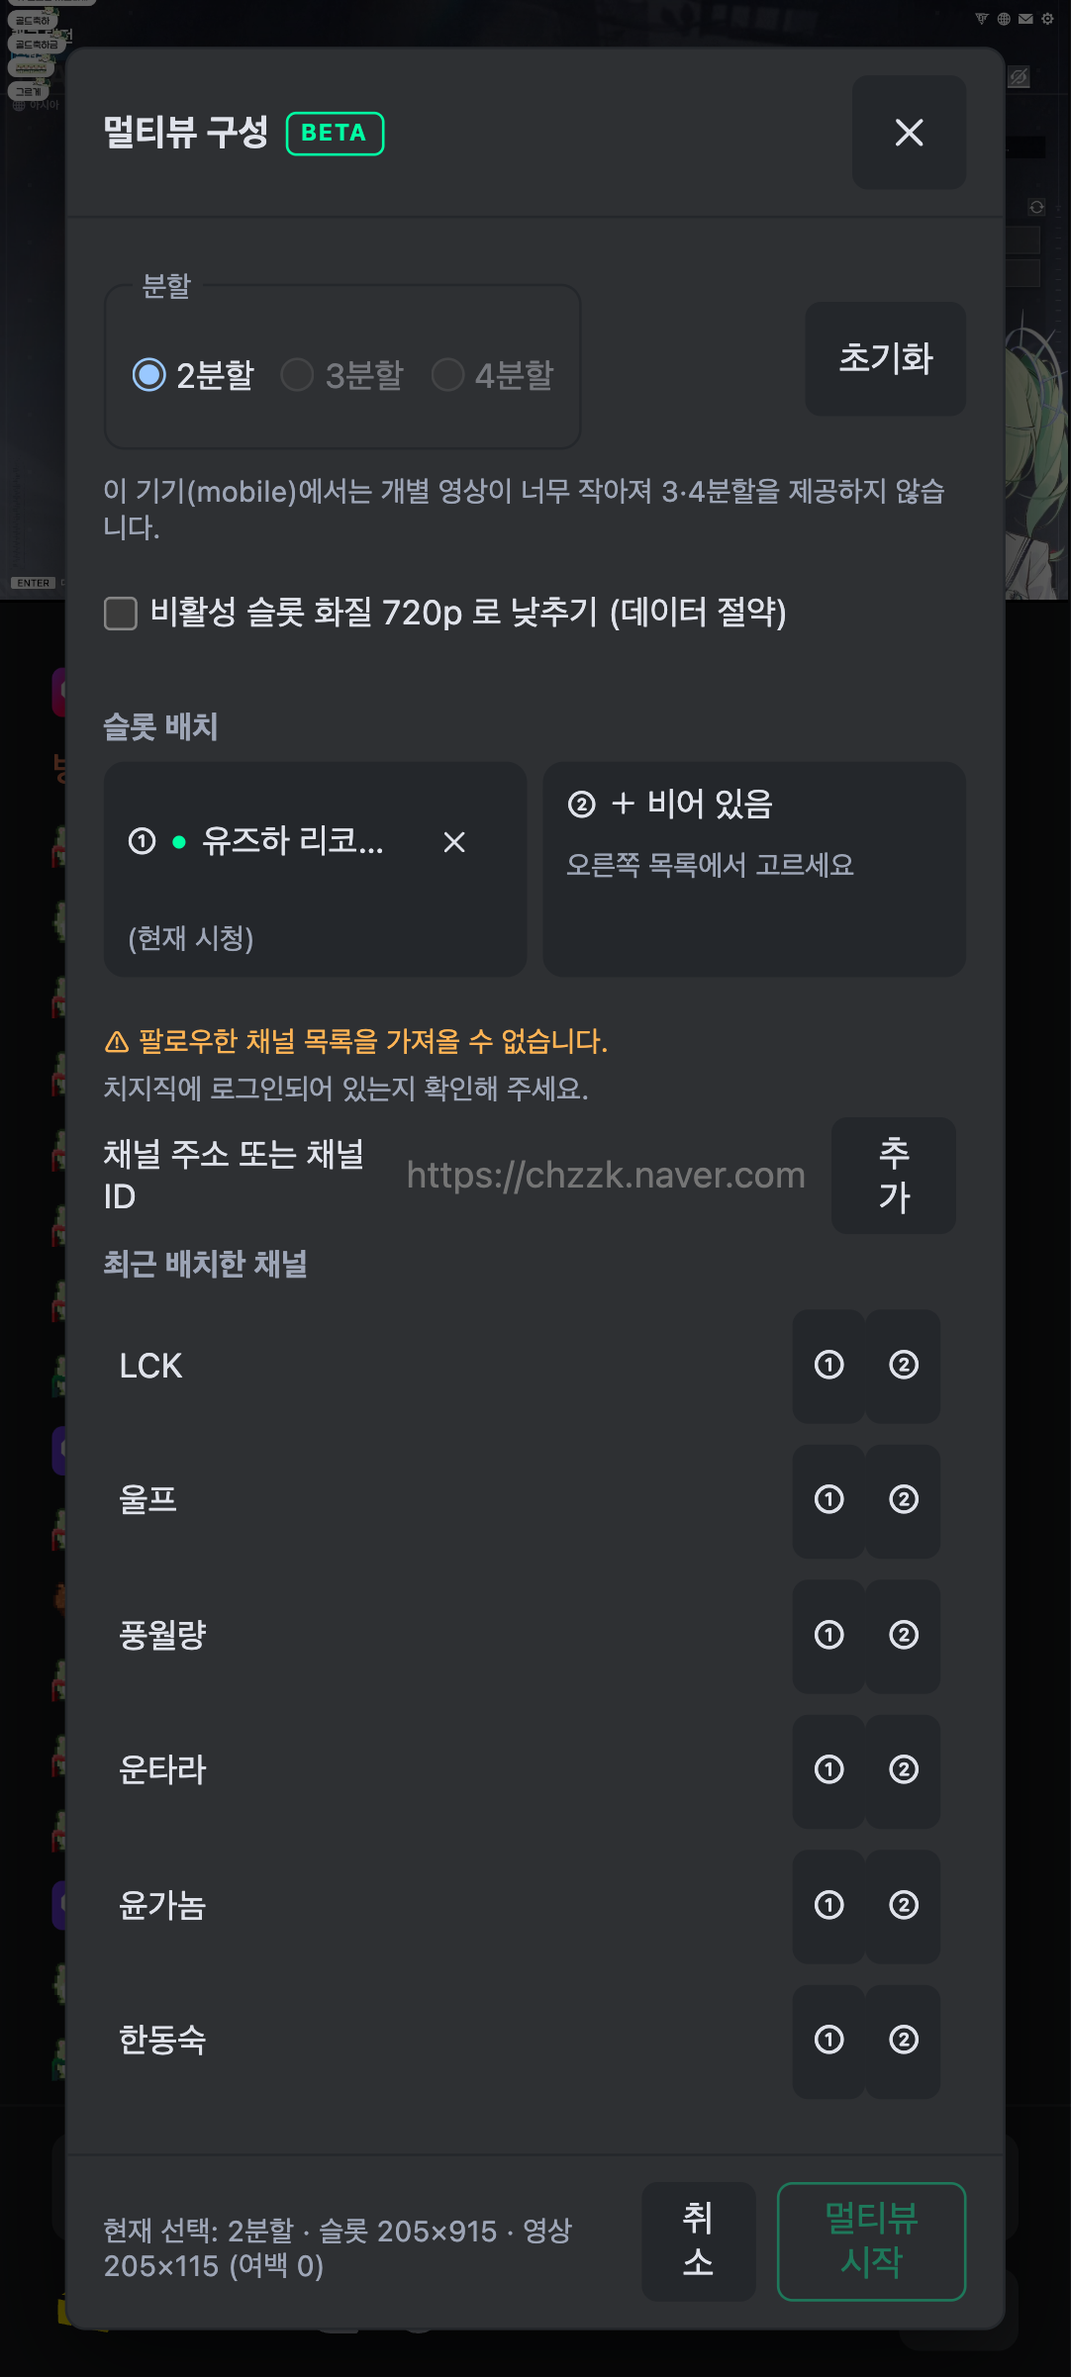
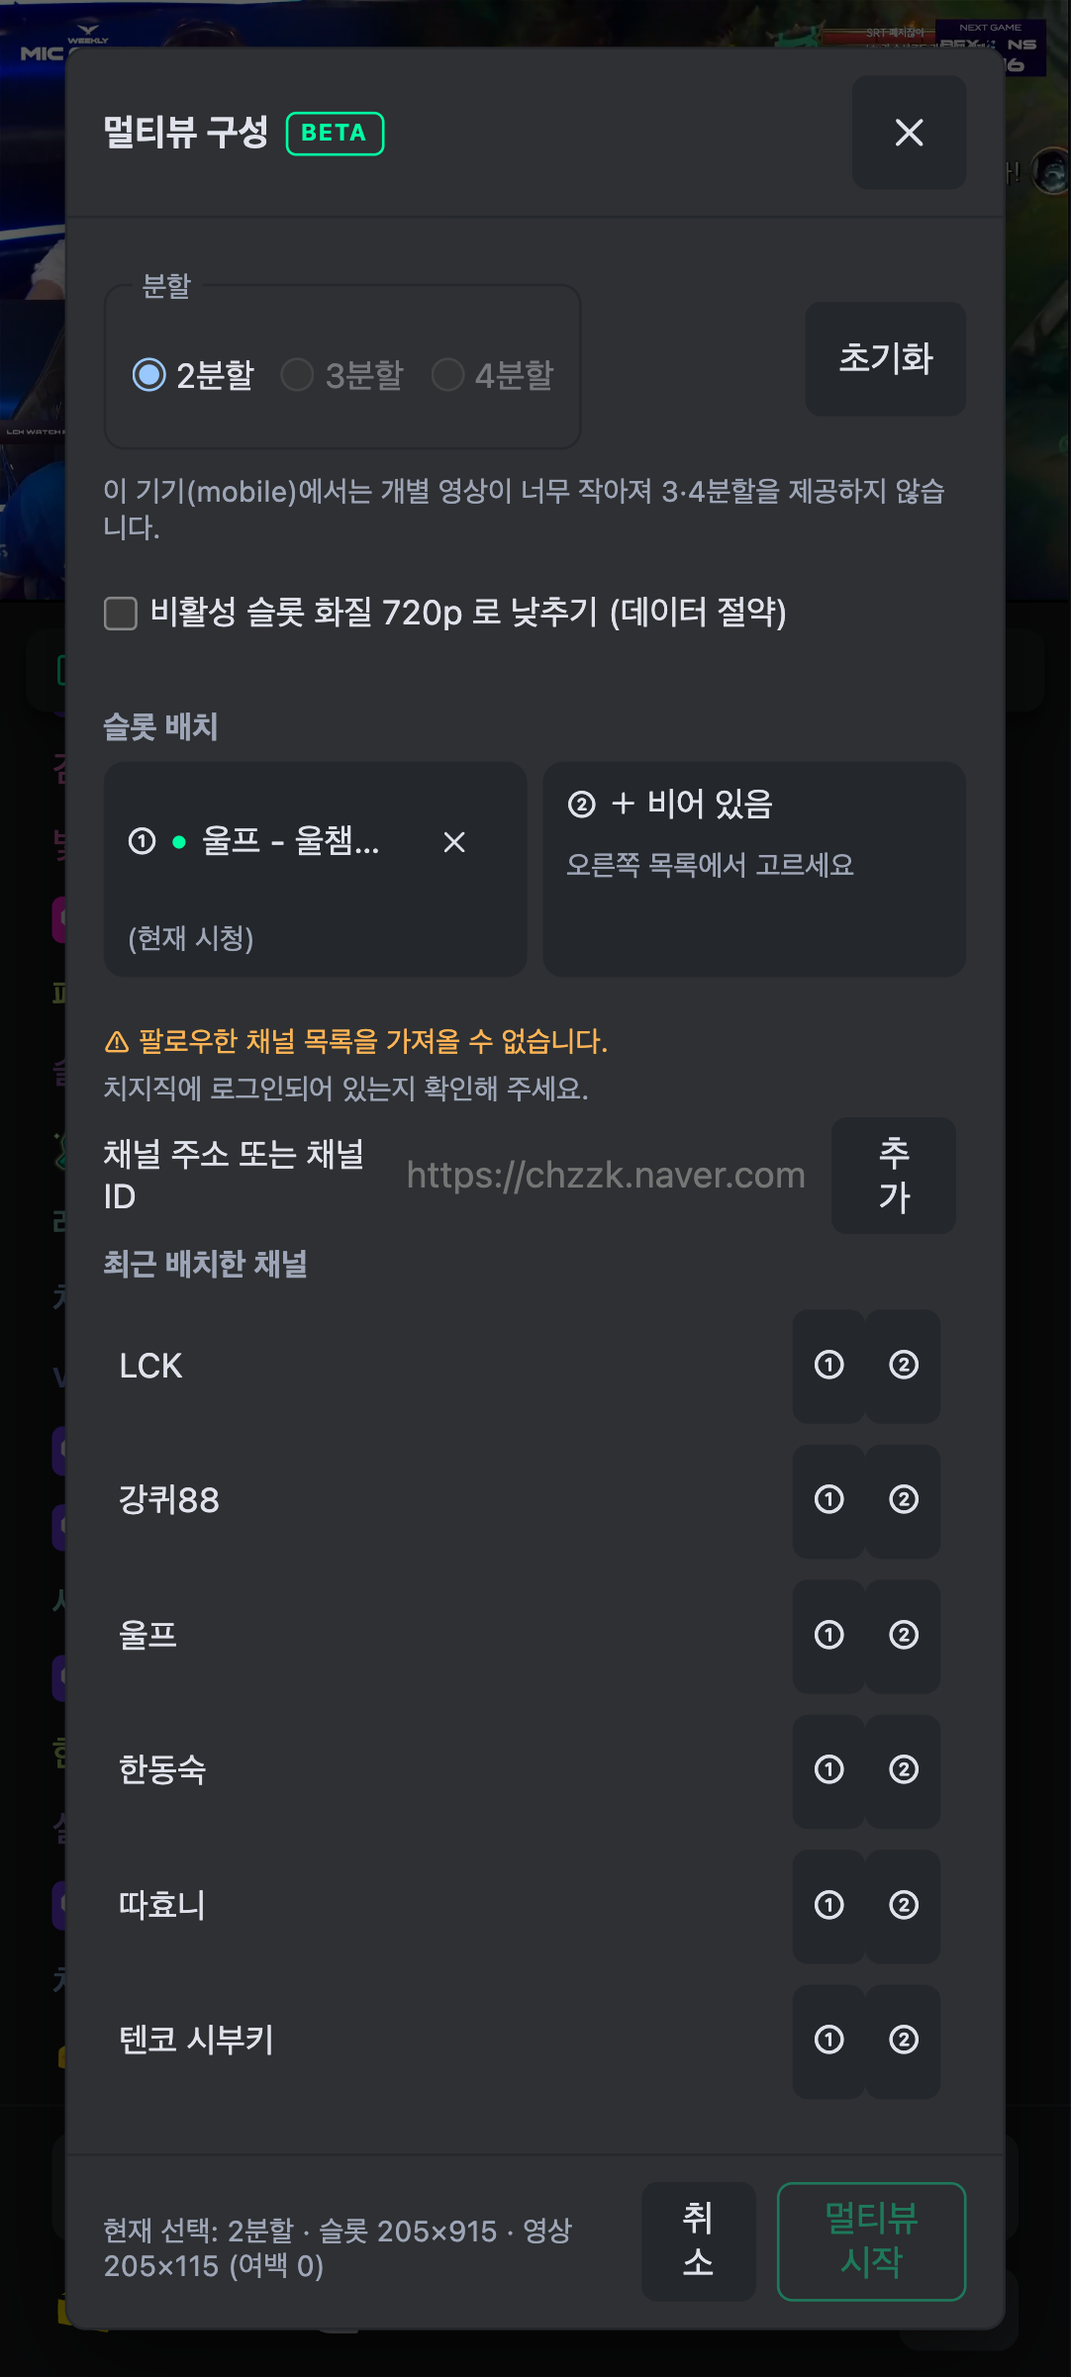
fix: Multiview config sheet layout + trim README
- Slot-placement grid in the multiview config sheet was pinned to the
  top of its stretched column, leaving a large dead gap below on
  short splits (2/3-way). Center it vertically within the leftover
  space instead.
- "현재 구성 저장" is silently disabled when there are no slots yet or
  the saved-set limit is hit, with no indication why. Add a title
  explaining the reason.
- Trim the README: drop dev-diary-style investigation narratives
  (probe file references, per-attempt failure counts) that don't help
  an end user, remove a stale line describing the green focus-slot
  outline removed earlier this session, and de-duplicate the FR-10
  measurement note repeated in the Android install section.
- Refresh demo screenshots (yarn demo:shots) to reflect this session's
  UI changes.

diff --git a/src/features/multiView/configSheetCss.ts b/src/features/multiView/configSheetCss.ts
@@ -87,6 +87,21 @@ export const CONFIG_SHEET_CSS = `
 .cm-sheet-backdrop:has(.cm-mv-columns) .cm-sheet { height: min(900px, 96vh); }
 .cm-mv-columns > section { min-width: 0; }
 .cm-mv-columns h3 { margin: 0 0 6px; font-size: 12px; color: ${FG.muted}; }
+/*
+ * 🔴 왼쪽(슬롯 배치)은 항상 오른쪽(채널 목록, 최대 10행)만큼 커지도록 늘어난다
+ * (align-items: stretch) — 채널 목록이 스크롤할 공간을 최대로 받게 하려는 의도인데,
+ * 그 부작용으로 슬롯 그리드가 짧은 2·3분할에서 왼쪽 아래에 텅 빈 여백만 남는다
+ * (실측 laptop13, 4분할: 그리드 아래 약 600px 공백). 제목(h3)은 위에 그대로 두고,
+ * 그리드만 남는 세로 공간 안에서 가운데로 옮겨 여백을 위아래로 분산한다.
+ */
+.cm-mv-columns > section:first-child {
+  display: flex;
+  flex-direction: column;
+}
+.cm-mv-columns > section:first-child .cm-mv-grid {
+  margin-top: auto;
+  margin-bottom: auto;
+}
 
 /* 슬롯 미리보기 — 분할 수에 맞춘 그리드 */
 .cm-mv-grid {

diff --git a/src/settingsPanel/tabsExtra.tsx b/src/settingsPanel/tabsExtra.tsx
@@ -184,6 +184,14 @@ export function MultiViewTab({ settings, device, update }: TabProps) {
         className="cm-sheet__btn"
         aria-label="현재 구성 저장"
         disabled={multiView.slots.length === 0 || multiView.sets.length >= LIMITS.multiViewSets}
+        // 🔴 비활성 버튼만 놓으면 왜 안 눌리는지 알 수 없다 — 이유를 title 로 남긴다.
+        title={
+          multiView.slots.length === 0
+            ? '슬롯을 먼저 채워야 저장할 수 있습니다'
+            : multiView.sets.length >= LIMITS.multiViewSets
+              ? `저장된 조합이 최대 ${LIMITS.multiViewSets}개입니다`
+              : undefined
+        }
         onClick={() =>
           patch({
             sets: [

diff --git a/README.md b/README.md
@@ -34,7 +34,7 @@
 | 기본 시청 — 채팅 부가 요소 숨김 + 컨트롤바에 `멀티`·`⚙` 버튼 삽입, 채팅 폭 조절 `↔` 토글 | ![기본 시청](screenshots/demo-laptop13-watch.png) |
 | 설정 패널 (FR-09.2) — 탭 7개 + 오픈소스 라이선스 고지 진입점 | ![설정 패널](screenshots/demo-laptop13-settings.png) |
 | 멀티뷰 구성 시트 (BETA) — 조작은 상단, 인기 방송 10개씩 추가 로드 | ![멀티뷰 구성](screenshots/demo-laptop13-multiview-config.png) |
-| 멀티뷰 시청 (BETA) — 4분할, 초점 슬롯(사이드 채팅 대상·화질 우선순위)에 초록 테두리 | ![멀티뷰 시청](screenshots/demo-laptop13-multiview.png) |
+| 멀티뷰 시청 (BETA) — 4분할 | ![멀티뷰 시청](screenshots/demo-laptop13-multiview.png) |
 
 ### 모바일 (데스크톱 사이트 요청 상태)
 
@@ -49,14 +49,8 @@
 | 가로 915×412 — 멀티뷰 시청 (기기 상한 2분할) | ![모바일 가로 멀티뷰](screenshots/demo-mobile-landscape-multiview.png) |
 | 세로 412×915 — 멀티뷰 시청 (기기 상한 2분할) | ![모바일 세로 멀티뷰](screenshots/demo-mobile-portrait-multiview.png) |
 
-> ℹ `멀티` 버튼은 **이전에 보던 구성이 있으면 그대로 이어서 연다.** 없을 때만 구성 시트가 뜬다
-> (구성을 바꾸려면 스테이지의 `구성`). **슬롯·사이드 채팅 기능은 임시로 껐다** — 닉네임만 두 번 찍히고
-> 본문이 안 보이는 등 버그가 여러 건 있어 설정에서 아예 선택할 수 없게 막았다. 재작업 뒤 되살릴 예정이다.
->
-> ℹ 멀티뷰는 아직 **베타**다. 진입점(`멀티` 버튼·구성 시트 제목·스테이지 조작 바) 세 곳에 `BETA` 를 표기한다.
-> 2026-08-16 까지 슬롯마다 치지직 플레이어 컨텍스트 메뉴가 좌상단에 새어 나와 멀티뷰 시청 화면을
-> 표에서 뺐었는데, 되살리기 CSS 를 고친 뒤 3프로필 전부 노출 0건이라 다시 넣었다
-> (`capture-demo.mjs` 가 노출을 발견하면 저장하지 않고 다른 채널로 다시 찍는다).
+> ℹ `멀티` 버튼은 이전에 보던 구성이 있으면 그대로 이어서 연다 (구성을 바꾸려면 스테이지의 `구성`).
+> **슬롯·사이드 채팅 기능은 버그로 임시 비활성**이며, 멀티뷰는 아직 **베타**다.
 
 ## 기능
 
@@ -77,7 +71,7 @@
 | FR-11 | 특정 유저 채팅만 표시 | 복수 선택 가능. 켜는 즉시 최근 200개에서 과거 발언 채움 |
 | FR-12 | 기기 유형별 최적 UI·UX | 데스크톱 / 노트북 / 태블릿 13"·10"·7" / 모바일 6종 |
 | FR-13 | 치트키 구매 팝업 가리기 | 프로모션 팝업 UI(배너 + 플레이어 툴팁)를 가린다 |
-| FR-14 | 2~4 화면 분할 동시 시청(멀티뷰) | **모든 슬롯이 소리를 낸다** (2026-08-20 변경 — 슬롯마다 음소거·볼륨 컨트롤이 있어 직접 조절한다). 슬롯·사이드 채팅은 버그로 임시 비활성. 조작 바(`− + 50% 구성 ⛶ 해제`)는 **가운데 상단**, 볼륨은 마스터다 |
+| FR-14 | 2~4 화면 분할 동시 시청(멀티뷰) | 슬롯마다 음소거·볼륨을 직접 조절한다(모든 슬롯이 소리를 낸다). 슬롯·사이드 채팅은 버그로 임시 비활성. 조작 바(`− + 50% 구성 ⛶ 해제`)는 가운데 상단, 볼륨은 마스터다 |
 | FR-15 | 채팅 폰트 크기 조절 | 사이드 11~24px(기본 14) · 슬롯 10~16px(기본 12) |
 | FR-16 | 채팅창 부가 요소 숨김 | `채팅` 헤더 · 주간 후원 랭킹 · 드롭스 안내. **기본 숨김**, 항목별 토글 |
 | FR-17 | 채팅창 광고 배너 숨김 | **기본 숨김**. 배너 UI 만 가린다 — 영상 광고 재생에는 개입하지 않는다 |
@@ -92,14 +86,11 @@
 | VOD (`chzzk.naver.com/video/…`) | 화질·볼륨·넓은 화면·설정 패널 (채팅 관련 기능은 대상이 없다) |
 | 모바일 웹 (`m.chzzk.naver.com`) | **화질·볼륨만** — 이 사이트에는 채팅 UI·넓은 화면 버튼이 아예 없다. 진입 시 안내를 1회 노출한다 |
 
-> 모바일에서 채팅과 함께 보려면 브라우저의 **"데스크톱 사이트 요청"** 을 켜면 된다.
-> 그 상태에서 가로로 돌리면 FR-10 이 자동 적용된다 (915×412 실측: 채팅 183px, 영상 731×411, 여백 0).
+> 모바일에서 채팅과 함께 보려면 브라우저의 **"데스크톱 사이트 요청"**을 켜면 된다.
+> 그 상태에서 가로로 돌리면 FR-10 이 자동 적용된다.
 >
-> ⚠ **확장이 데스크톱 사이트로 자동 전환해 주지는 못한다.** 모바일 UA 로 `chzzk.naver.com` 에
-> 접속하면 치지직이 다시 `m.chzzk` 로 보내기 때문에, 확장이 리다이렉트하면 무한 루프가 된다.
-> 억제 수단(쿼리 파라미터 8종·쿠키 4종)을 실측으로 전부 시도해 **12/12 실패**를 확인했다
-> (실측 근거 `chzzk-dom-33` 은 개발 저장소의 로컬 덤프에 있다).
-> 유일한 방법인 UA 위조는 광범위 권한이 필요해 채택하지 않았다 — 대신 **안내를 1회 노출**한다.
+> ⚠ **확장이 데스크톱 사이트로 자동 전환해 주지는 못한다.** 모바일 UA 로 접속하면 치지직이
+> `m.chzzk` 로 다시 보내 확장이 리다이렉트하면 무한 루프가 되기 때문이다. 대신 안내를 1회 노출한다.
 
 ---
 
@@ -268,9 +259,8 @@ yarn build && yarn pack:crx      # → release/ezzzk-<version>.crx, .zip
 
 - ⭐ **"데스크톱 사이트 요청"을 켠다.** 켜지 않으면 `m.chzzk.naver.com` 으로 리다이렉트되는데,
   그 사이트에는 **채팅 UI·넓은 화면 버튼이 아예 없어** 화질·볼륨만 동작한다.
-  켜고 가로로 돌리면 FR-10 초광폭 레이아웃이 자동 적용된다
-  (915×412 실측: 채팅 183px, 영상 731×411, 여백 0).
-- 태블릿도 마찬가지다. **태블릿 UA 역시 `m.chzzk` 로 리다이렉트되는 것을 실측으로 확인**했다.
+  켜고 가로로 돌리면 FR-10 초광폭 레이아웃이 자동 적용된다.
+- 태블릿도 마찬가지로 켜야 한다 (태블릿 UA 도 `m.chzzk` 로 리다이렉트된다).
 
 **모바일 제약**
 
@@ -342,7 +332,7 @@ MIT License · Copyright (c) 2026 Arc-Jung
 
 ## 변경 이력
 
-- **2026-08-23** — 초점 슬롯의 초록 테두리 강조 표시 제거(버튼 상태 자체는 유지), 초광폭 화면(비율 1.8 이상 — 21:9·32:9 데스크톱 모니터부터 맥시마이즈한 노트북·태블릿 가로까지 모두 해당)에서 영상을 왼쪽에 붙일지 가운데(치지직 기본값)에 둘지 선택하는 옵션 추가(전체화면 여부와 무관하게 적용), **멀티뷰 슬롯의 자동 화질 변경·자동 음소거 해제가 먹통이던 문제 수정** — 화질은 설정 메뉴를 열어야 하는 경로에서 재시도가 전혀 없었고 목표 항목을 찾고도 합성 클릭이 반영되지 않았음(키보드 Enter 활성화로 교체), 음소거는 2026-08-20 정책 변경 때 등록 시 자동 해제 지시가 함께 사라져 자동재생 정책으로 음소거된 슬롯을 아무도 풀어주지 않았음(등록 시 1회 해제 복원)
+- **2026-08-23** — 초점 슬롯의 초록 테두리 강조 표시 제거(버튼 상태 자체는 유지), 초광폭 화면(비율 1.8 이상 — 21:9·32:9 데스크톱 모니터부터 맥시마이즈한 노트북·태블릿 가로까지 모두 해당)에서 영상을 왼쪽에 붙일지 가운데(치지직 기본값)에 둘지 선택하는 옵션 추가(전체화면 여부와 무관하게 적용), **멀티뷰 슬롯의 자동 화질 변경·자동 음소거 해제가 먹통이던 문제 수정** — 화질은 설정 메뉴를 열어야 하는 경로에서 재시도가 전혀 없었고 목표 항목을 찾고도 합성 클릭이 반영되지 않았음(키보드 Enter 활성화로 교체), 음소거는 2026-08-20 정책 변경 때 등록 시 자동 해제 지시가 함께 사라져 자동재생 정책으로 음소거된 슬롯을 아무도 풀어주지 않았음(등록 시 1회 해제 복원), 음량 평탄화(컴프레서) 아이콘이 허공에 뜬 선처럼 보이던 문제 수정, 멀티뷰 구성 시트에서 슬롯 배치가 짧을 때 아래에 남던 빈 공간을 세로 가운데 정렬로 정리, 저장된 조합이 없거나 꽉 찼을 때 비활성화되는 "현재 구성 저장" 버튼에 이유를 안내하는 title 추가, README 정리(불필요한 서술 제거·오래된 내용 갱신)
 - **2026-08-22** — 데모 스크린샷 갱신, 광고 차단 안내 재시도 로직 정리, **멀티뷰 사이드/슬롯 채팅 기능 임시 비활성화**(버그 다수 발견, 재작업 예정 — 설정에서 선택할 수 없고 저장값과 무관하게 표시되지 않는다), 멀티뷰 진입 클릭을 원본 재생 조작으로 오인해 원본 소리가 겹치던 문제 수정, 초점 슬롯에 초록 테두리 표시 복원(초점 버튼이 먹통으로 보이던 문제), 모바일 세로 2분할에서 슬롯 높이의 약 45%가 검은 여백이던 레이아웃 수정
 - **2026-08-21** — 볼륨 컨트롤에 라우드니스 컴프레서 토글 추가, 채팅 폭 조절·프리셋 UI를 플레이어 우측 중앙으로 재배치, 멀티뷰 오디오 라우팅 제거, 남은 텍스트/글리프 아이콘을 공용 SVG로 교체, 라이선스 고지를 설정 탭으로 이동, 팝업 스크롤·접근성 보강
 - **2026-08-20** — ezzzk 최초 공개 릴리스 (기본 시청 화면 정리, 설정 패널, 멀티뷰 베타, 클린봇 기본 해제 등)

diff --git a/screenshots/README-snippet.md b/screenshots/README-snippet.md
@@ -1,15 +1,15 @@
 <!-- `yarn demo:shots` 로 생성된 목록. 실제 방송을 찍으므로 매 실행마다 채널이 다르다. -->
 <!-- 멀티뷰 시청 화면은 슬롯 컨텍스트 메뉴가 새어 나오면 저장 자체가 실패한다. -->
 
-| 기본 시청 화면 — 채팅 부가 요소 숨김 + 컨트롤바 버튼 삽입 (mobile-landscape · 사키하네 후야) | ![기본 시청 화면 — 채팅 부가 요소 숨김 + 컨트롤바 버튼 삽입](screenshots/demo-mobile-landscape-watch.png) |
-| 설정 패널 (FR-09.2) (mobile-landscape · 유즈하 리코) | ![설정 패널 (FR-09.2)](screenshots/demo-mobile-landscape-settings.png) |
-| 멀티뷰 구성 시트 — 조작은 상단, 인기 방송 10개씩 추가 로드 (mobile-landscape · 유즈하 리코) | ![멀티뷰 구성 시트 — 조작은 상단, 인기 방송 10개씩 추가 로드](screenshots/demo-mobile-landscape-multiview-config.png) |
-| 멀티뷰 시청 화면 (기기 상한에 맞춰 2·4분할) (mobile-landscape · 따효니) | ![멀티뷰 시청 화면 (기기 상한에 맞춰 2·4분할)](screenshots/demo-mobile-landscape-multiview.png) |
-| 기본 시청 화면 — 채팅 부가 요소 숨김 + 컨트롤바 버튼 삽입 (mobile-portrait · 사키하네 후야) | ![기본 시청 화면 — 채팅 부가 요소 숨김 + 컨트롤바 버튼 삽입](screenshots/demo-mobile-portrait-watch.png) |
-| 설정 패널 (FR-09.2) (mobile-portrait · 시라유키 히나) | ![설정 패널 (FR-09.2)](screenshots/demo-mobile-portrait-settings.png) |
-| 멀티뷰 구성 시트 — 조작은 상단, 인기 방송 10개씩 추가 로드 (mobile-portrait · 유즈하 리코) | ![멀티뷰 구성 시트 — 조작은 상단, 인기 방송 10개씩 추가 로드](screenshots/demo-mobile-portrait-multiview-config.png) |
-| 멀티뷰 시청 화면 (기기 상한에 맞춰 2·4분할) (mobile-portrait · 따효니) | ![멀티뷰 시청 화면 (기기 상한에 맞춰 2·4분할)](screenshots/demo-mobile-portrait-multiview.png) |
-| 기본 시청 화면 — 채팅 부가 요소 숨김 + 컨트롤바 버튼 삽입 (laptop13 · 사키하네 후야) | ![기본 시청 화면 — 채팅 부가 요소 숨김 + 컨트롤바 버튼 삽입](screenshots/demo-laptop13-watch.png) |
-| 설정 패널 (FR-09.2) (laptop13 · 시라유키 히나) | ![설정 패널 (FR-09.2)](screenshots/demo-laptop13-settings.png) |
-| 멀티뷰 구성 시트 — 조작은 상단, 인기 방송 10개씩 추가 로드 (laptop13 · 유즈하 리코) | ![멀티뷰 구성 시트 — 조작은 상단, 인기 방송 10개씩 추가 로드](screenshots/demo-laptop13-multiview-config.png) |
-| 멀티뷰 시청 화면 (기기 상한에 맞춰 2·4분할) (laptop13 · 따효니) | ![멀티뷰 시청 화면 (기기 상한에 맞춰 2·4분할)](screenshots/demo-laptop13-multiview.png) |
+| 기본 시청 화면 — 채팅 부가 요소 숨김 + 컨트롤바 버튼 삽입 (mobile-landscape · 윤가놈) | ![기본 시청 화면 — 채팅 부가 요소 숨김 + 컨트롤바 버튼 삽입](screenshots/demo-mobile-landscape-watch.png) |
+| 설정 패널 (FR-09.2) (mobile-landscape · 파카) | ![설정 패널 (FR-09.2)](screenshots/demo-mobile-landscape-settings.png) |
+| 멀티뷰 구성 시트 — 조작은 상단, 인기 방송 10개씩 추가 로드 (mobile-landscape · 울프) | ![멀티뷰 구성 시트 — 조작은 상단, 인기 방송 10개씩 추가 로드](screenshots/demo-mobile-landscape-multiview-config.png) |
+| 멀티뷰 시청 화면 (기기 상한에 맞춰 2·4분할) (mobile-landscape · 유즈하 리코) | ![멀티뷰 시청 화면 (기기 상한에 맞춰 2·4분할)](screenshots/demo-mobile-landscape-multiview.png) |
+| 기본 시청 화면 — 채팅 부가 요소 숨김 + 컨트롤바 버튼 삽입 (mobile-portrait · 윤가놈) | ![기본 시청 화면 — 채팅 부가 요소 숨김 + 컨트롤바 버튼 삽입](screenshots/demo-mobile-portrait-watch.png) |
+| 설정 패널 (FR-09.2) (mobile-portrait · 파카) | ![설정 패널 (FR-09.2)](screenshots/demo-mobile-portrait-settings.png) |
+| 멀티뷰 구성 시트 — 조작은 상단, 인기 방송 10개씩 추가 로드 (mobile-portrait · 울프) | ![멀티뷰 구성 시트 — 조작은 상단, 인기 방송 10개씩 추가 로드](screenshots/demo-mobile-portrait-multiview-config.png) |
+| 멀티뷰 시청 화면 (기기 상한에 맞춰 2·4분할) (mobile-portrait · 유즈하 리코) | ![멀티뷰 시청 화면 (기기 상한에 맞춰 2·4분할)](screenshots/demo-mobile-portrait-multiview.png) |
+| 기본 시청 화면 — 채팅 부가 요소 숨김 + 컨트롤바 버튼 삽입 (laptop13 · 윤가놈) | ![기본 시청 화면 — 채팅 부가 요소 숨김 + 컨트롤바 버튼 삽입](screenshots/demo-laptop13-watch.png) |
+| 설정 패널 (FR-09.2) (laptop13 · 파카) | ![설정 패널 (FR-09.2)](screenshots/demo-laptop13-settings.png) |
+| 멀티뷰 구성 시트 — 조작은 상단, 인기 방송 10개씩 추가 로드 (laptop13 · 울프) | ![멀티뷰 구성 시트 — 조작은 상단, 인기 방송 10개씩 추가 로드](screenshots/demo-laptop13-multiview-config.png) |
+| 멀티뷰 시청 화면 (기기 상한에 맞춰 2·4분할) (laptop13 · 유즈하 리코) | ![멀티뷰 시청 화면 (기기 상한에 맞춰 2·4분할)](screenshots/demo-laptop13-multiview.png) |
